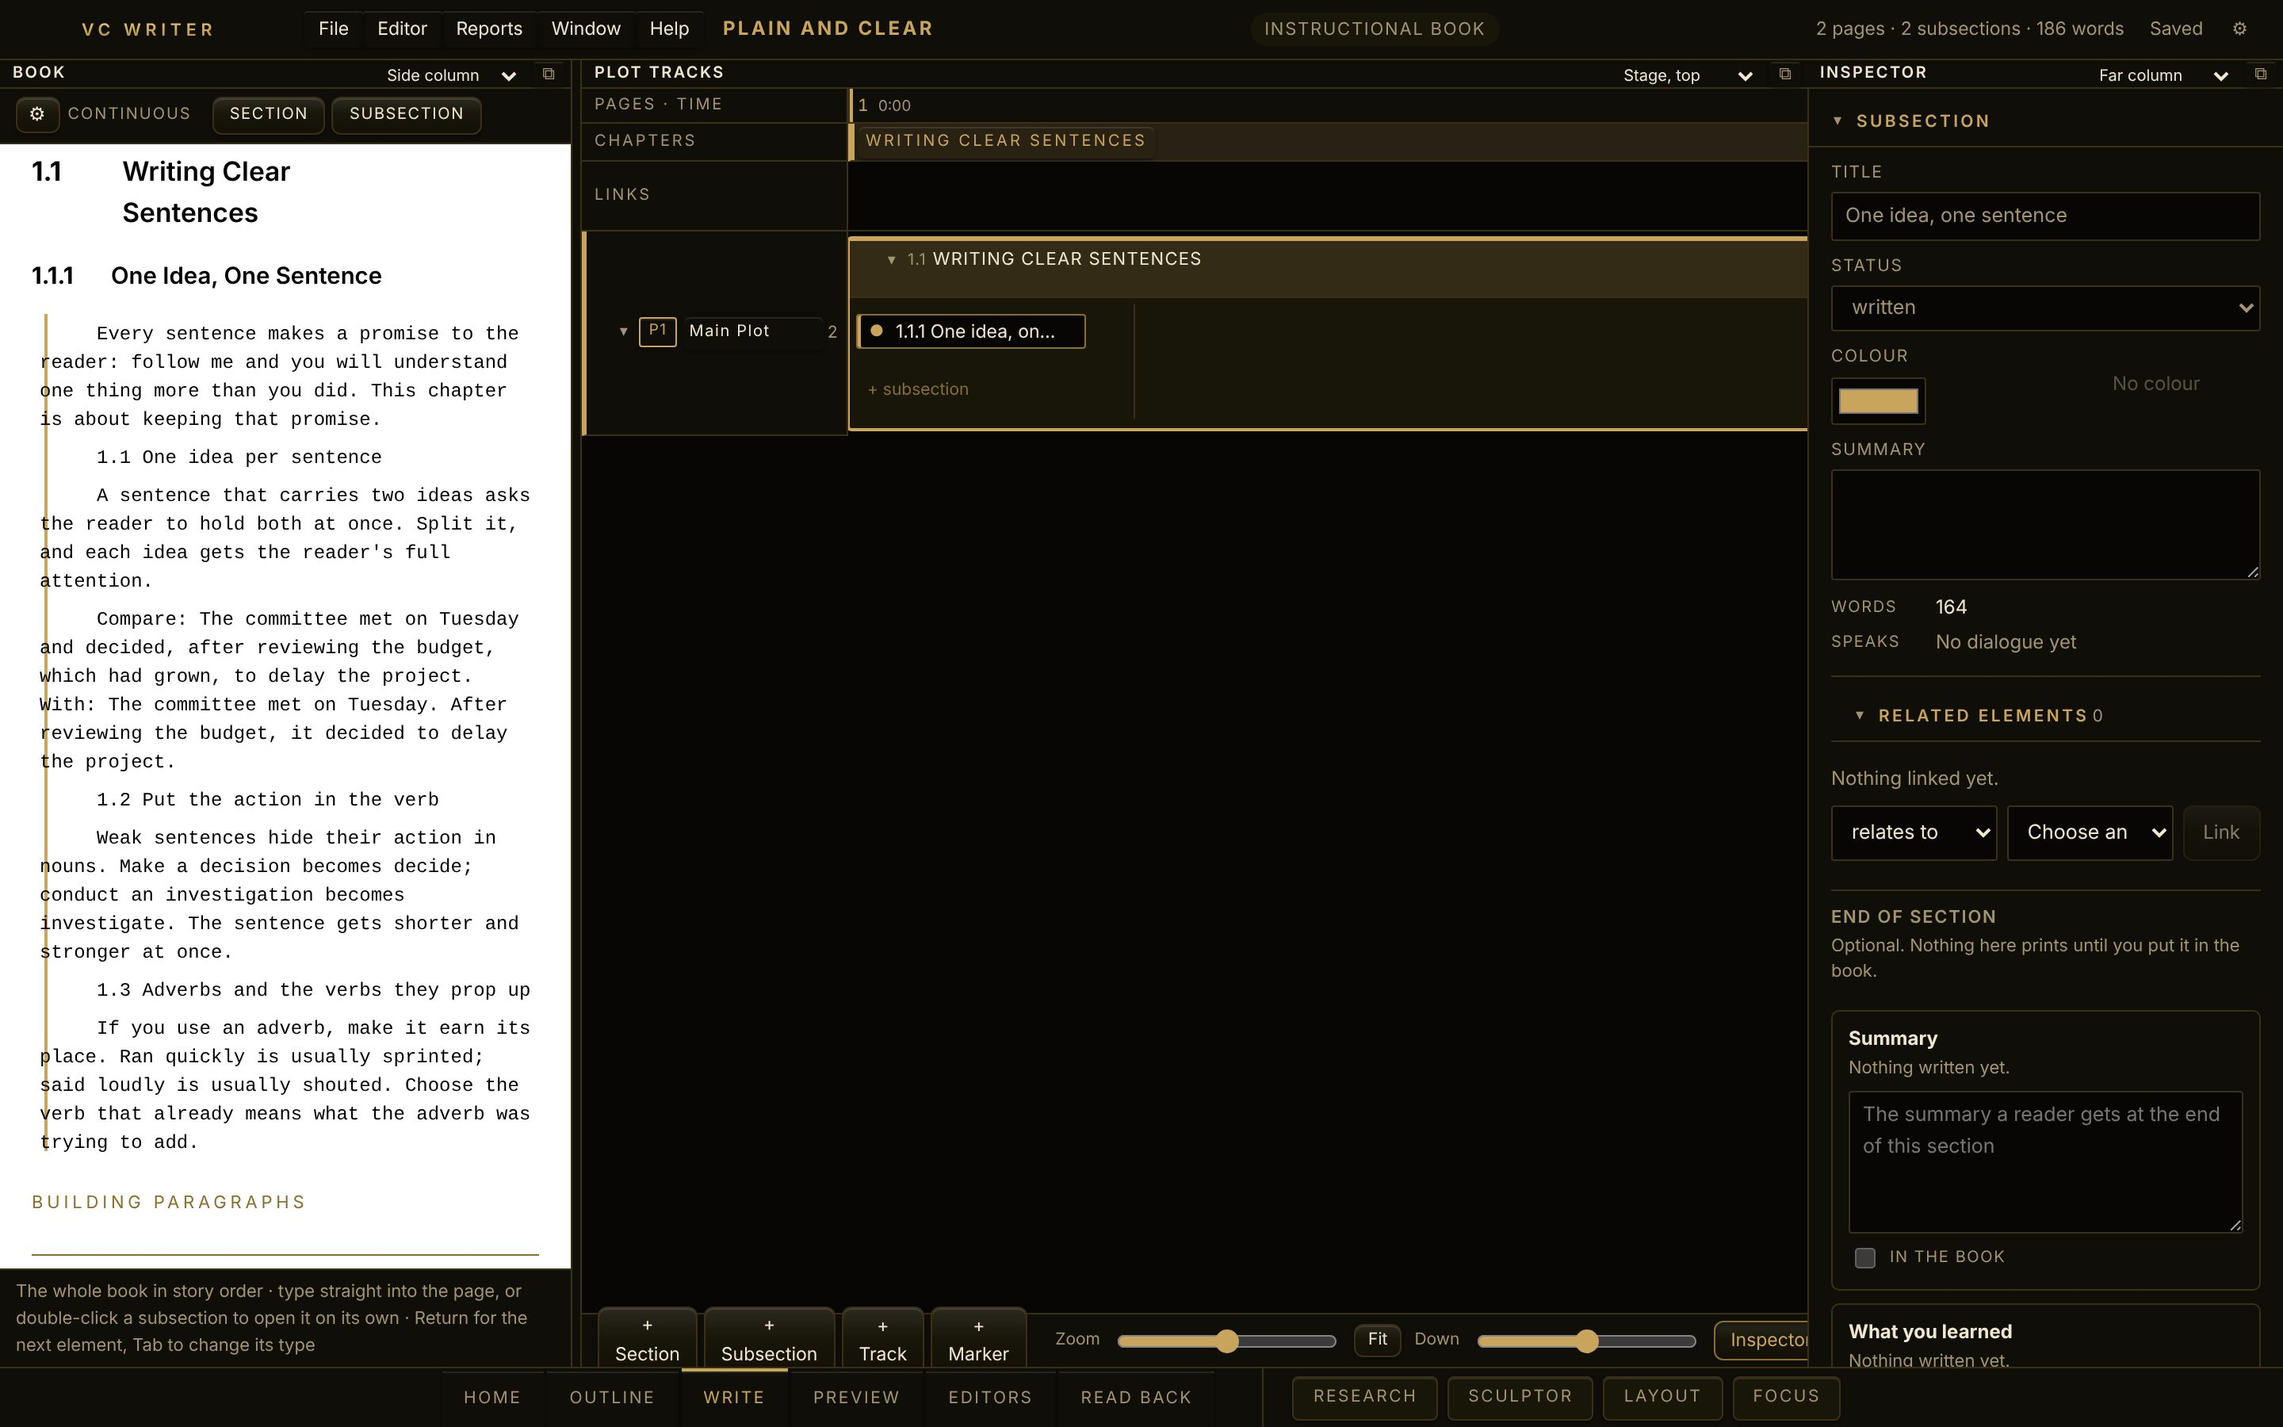
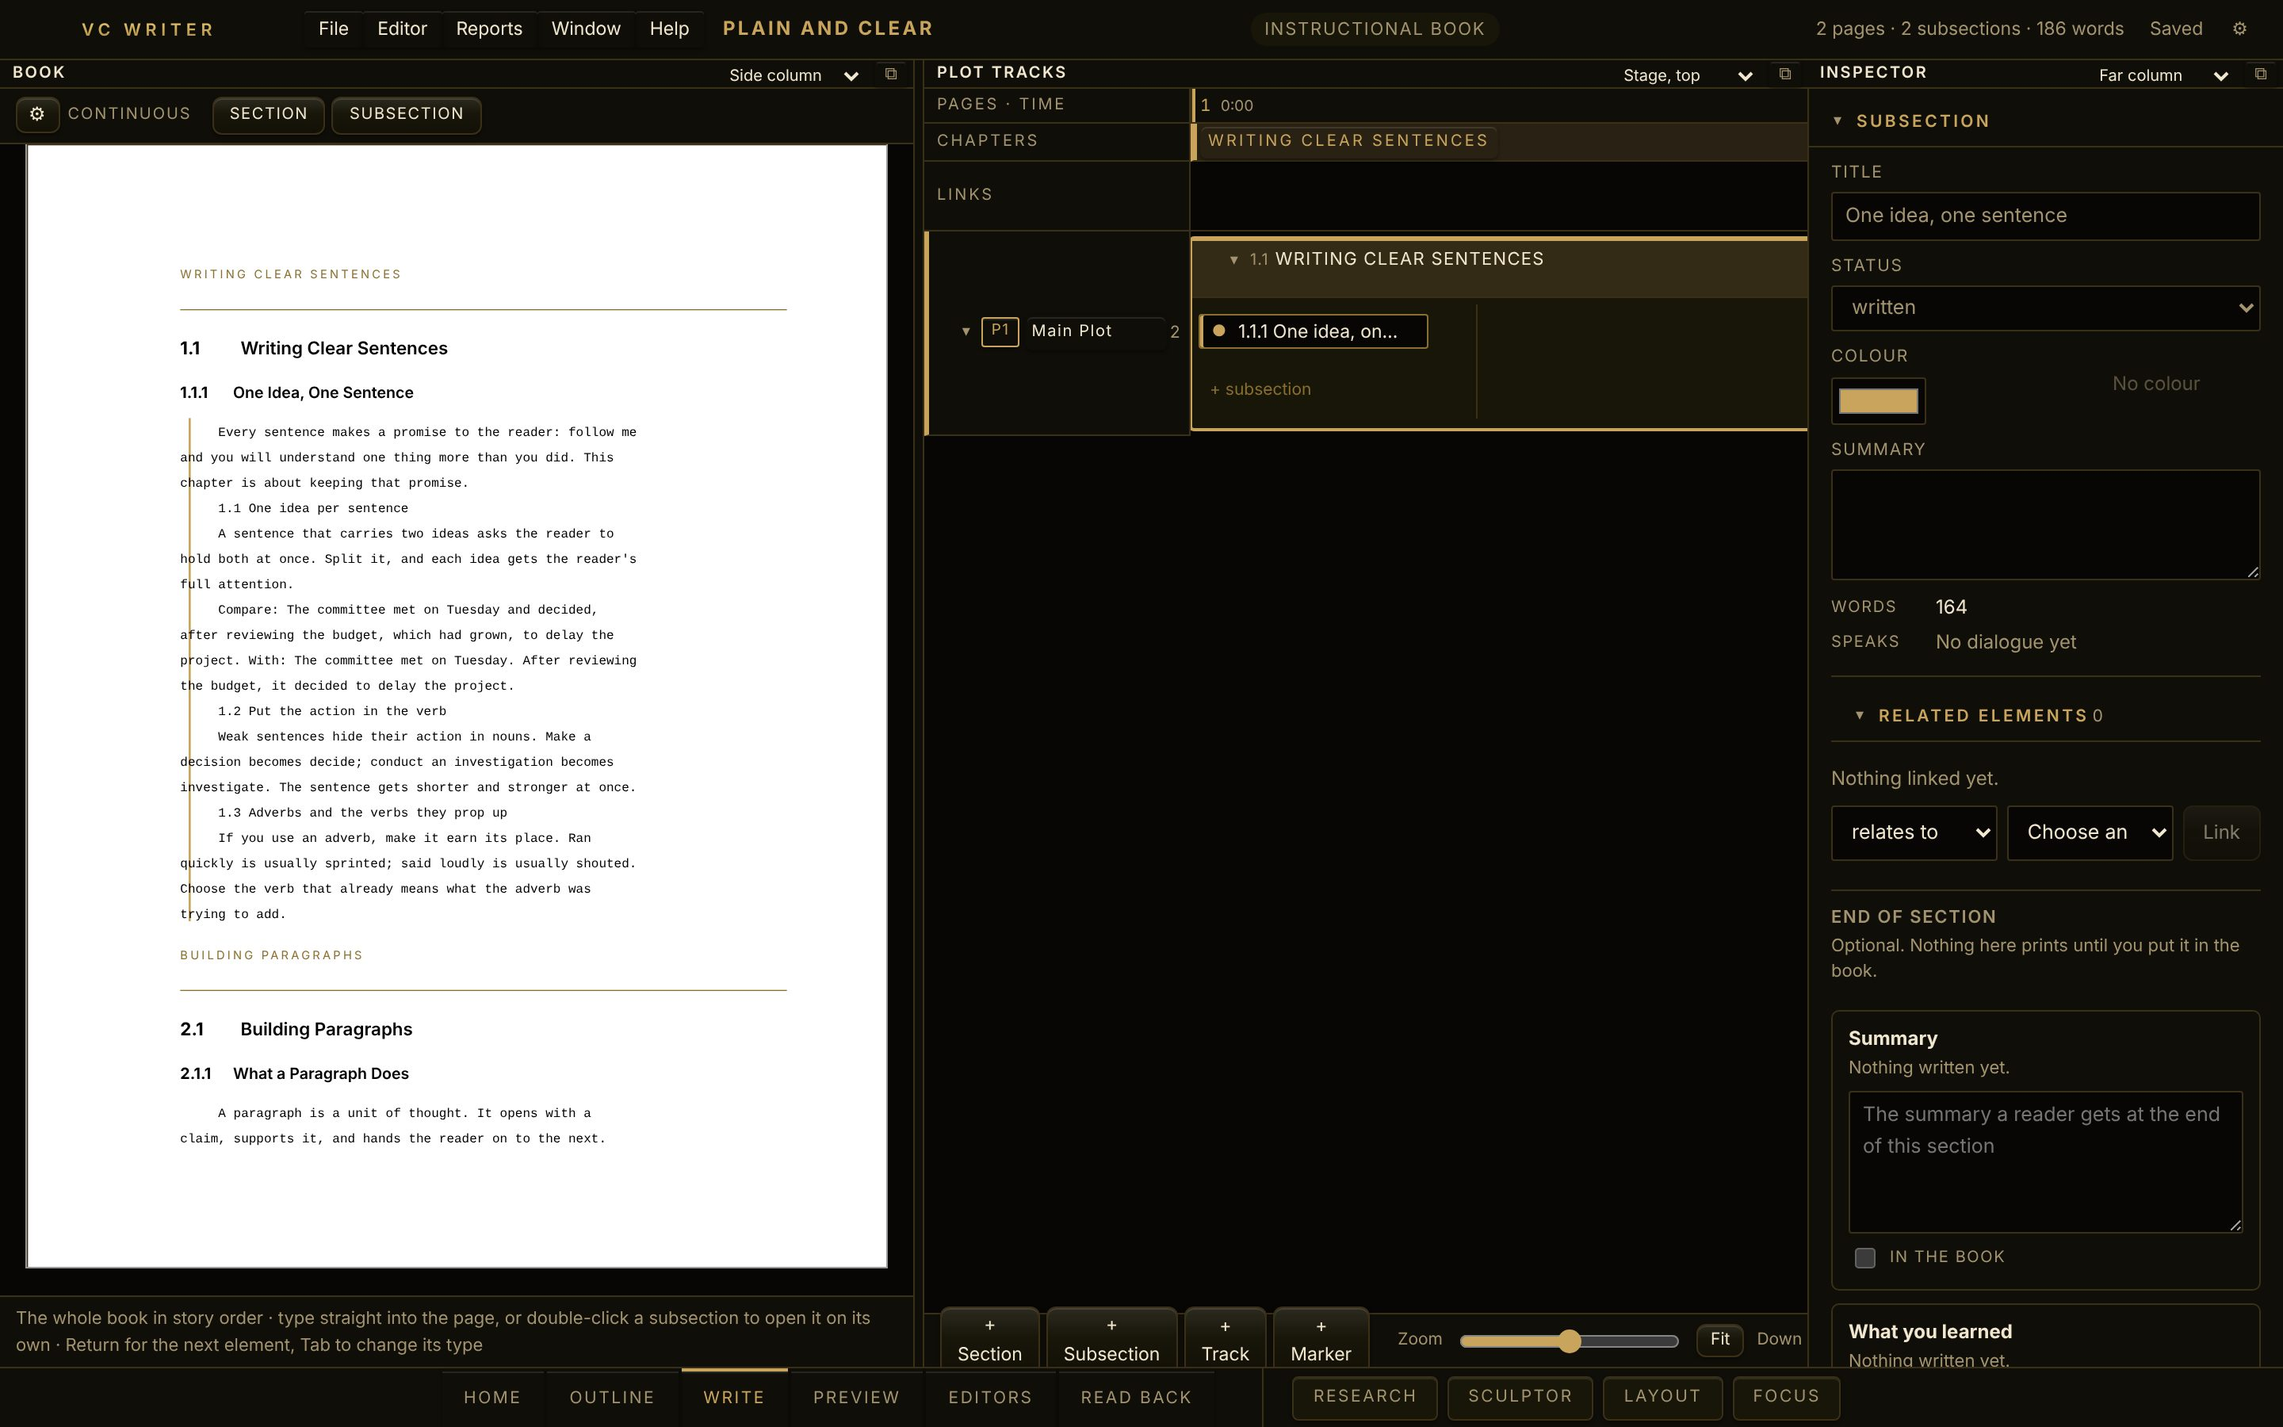
The manuscript on the left is a sheet of 8½ by 11 paper
The continuous script and manuscript view is laid out on an 8½-inch sheet
with the print margins and 12pt type, then scaled to the column as one
piece, so every line breaks where it breaks on paper instead of wrapping
to the column. The page view's print spacing applies to it, and prose is
double spaced with run-on paragraphs on both views, as the paginator
counts it. The script column starts at 40% of the window (a new key, so
existing installs get the wider start once). Every screenshot is retaken.

Claude-Session: https://claude.ai/code/session_01HufyX56kuynopRgv2CJ1Ch

diff --git a/apps/desktop/src/renderer/workspace.css b/apps/desktop/src/renderer/workspace.css
@@ -2777,7 +2777,7 @@ input[type='color'].swatch {
   display: none;
 }
 
-.script-pages .page-column {
+:is(.script-pages, .sheet-paper) .page-column {
   font-size: 12pt;
   /* Six lines to the inch, exactly, and no gap between elements: the blank
      line between them is a real blank line, put there below. */
@@ -2788,34 +2788,34 @@ input[type='color'].swatch {
 /* One blank line between blocks, as the paginator counts it — between two
    elements of a beat, and equally between two beats, which are two blocks on
    the page whatever they are in the structure. */
-.script-pages .element + .element,
-.script-pages .dual-row,
-.script-pages .element + .dual-row,
-.script-pages .dual-row + .element,
-.script-pages .beat-block + .beat-block,
-.script-pages .beat-block + .beat-name,
-.script-pages .beat-name + .beat-block,
-.script-pages .beat-block + .scene-name,
-.script-pages .beat-block + .act-bar {
+:is(.script-pages, .sheet-paper) .element + .element,
+:is(.script-pages, .sheet-paper) .dual-row,
+:is(.script-pages, .sheet-paper) .element + .dual-row,
+:is(.script-pages, .sheet-paper) .dual-row + .element,
+:is(.script-pages, .sheet-paper) .beat-block + .beat-block,
+:is(.script-pages, .sheet-paper) .beat-block + .beat-name,
+:is(.script-pages, .sheet-paper) .beat-name + .beat-block,
+:is(.script-pages, .sheet-paper) .beat-block + .scene-name,
+:is(.script-pages, .sheet-paper) .beat-block + .act-bar {
   margin-top: 12pt;
 }
 
 /* Except inside a speech, which is one block of consecutive lines — the
    paginator counts it that way, and the page prints it that way. */
-.script-pages .element-character + .element-parenthetical,
-.script-pages .element-character + .element-dialogue,
-.script-pages .element-parenthetical + .element-dialogue,
-.script-pages .element-parenthetical + .element-parenthetical,
-.script-pages .element-dialogue + .element-parenthetical,
-.script-pages .element-dialogue + .element-dialogue {
+:is(.script-pages, .sheet-paper) .element-character + .element-parenthetical,
+:is(.script-pages, .sheet-paper) .element-character + .element-dialogue,
+:is(.script-pages, .sheet-paper) .element-parenthetical + .element-dialogue,
+:is(.script-pages, .sheet-paper) .element-parenthetical + .element-parenthetical,
+:is(.script-pages, .sheet-paper) .element-dialogue + .element-parenthetical,
+:is(.script-pages, .sheet-paper) .element-dialogue + .element-dialogue {
   margin-top: 0;
 }
 
 /* Nothing may add height that the printed page does not have, so the box the
    writer types in carries no padding and no border; the focus ring is an
    outline, which takes no room. */
-.script-pages .element .ink,
-.script-pages .element textarea {
+:is(.script-pages, .sheet-paper) .element .ink,
+:is(.script-pages, .sheet-paper) .element textarea {
   padding: 0;
   border: 0;
 }
@@ -2823,11 +2823,11 @@ input[type='color'].swatch {
 /* The same on the paged Script: the caret says where you are and nothing else
    does (§19). An outline here would be a box that follows the cursor down the
    page. */
-.script-pages .element textarea:focus {
+:is(.script-pages, .sheet-paper) .element textarea:focus {
   outline: none;
 }
 
-.script-pages .beat-block {
+:is(.script-pages, .sheet-paper) .beat-block {
   padding: 0;
   margin: 0;
   border: 0;
@@ -2836,13 +2836,13 @@ input[type='color'].swatch {
 /* The scaffolding — act bars, scene names, beat names — prints nothing, so
    it is kept to a single line's worth of room and never pushes a line onto
    another sheet. */
-.script-pages .beat-name,
-.script-pages .scene-name,
-.script-pages .act-bar {
+:is(.script-pages, .sheet-paper) .beat-name,
+:is(.script-pages, .sheet-paper) .scene-name,
+:is(.script-pages, .sheet-paper) .act-bar {
   margin-bottom: 12pt;
 }
 
-.script-pages .script-title-block {
+:is(.script-pages, .sheet-paper) .script-title-block {
   margin-bottom: 24pt;
 }
 
@@ -4128,7 +4128,7 @@ dialog.marker-dialog {
    are named apart from it because the sheet declares `--paper` on itself and
    a variable cannot be inherited past a declaration on the element it lands
    on. */
-.workspace .script-view.own-paper .script-sheet,
+.workspace .script-view.own-paper .sheet-paper,
 .workspace .script-view.own-paper .page-sheet {
   background: var(--own-paper);
   color: var(--own-ink);
@@ -23153,3 +23153,68 @@ input.note-rewrite-title:focus { border-color: var(--gold); outline: none; }
 .sc-outline-row:hover { border-color: var(--gold-deep); }
 .sc-outline-kind { flex: 0 0 auto; font-size: 10px; letter-spacing: 0.06em; text-transform: uppercase; color: var(--gold); }
 .sc-outline-title { min-width: 0; overflow: hidden; text-overflow: ellipsis; white-space: nowrap; font-size: 12.5px; }
+
+
+/* ------------------------------------------------------ continuous sheet */
+
+/* The continuous page as a sheet of 8½-inch paper (from Ken: *it needs to be
+   like a regular 8.5 by 11 sheet of paper; on the screen they look
+   smashed*). Laid out at the printed width with the print margins and 12pt
+   type, then scaled to the column as one piece, exactly as the page view is:
+   the line that turns on screen is the line that turns on paper. The
+   surround is the dark of the workspace, so the page reads as a page. */
+.script-sheet {
+  padding: 16px;
+  background: var(--ink);
+}
+
+.workspace.script-paper .script-sheet {
+  background: var(--ink);
+  color-scheme: dark;
+}
+
+.sheet-frame {
+  margin: 0 auto;
+  overflow: hidden;
+}
+
+.sheet-paper {
+  width: 8.5in;
+  box-sizing: border-box;
+  min-height: 11in;
+  padding: 1in 1in 1in 1.5in;
+  background: var(--paper, var(--panel-2));
+  color: var(--paper-ink, var(--text));
+  border: 1px solid var(--border);
+  box-shadow: 0 2px 16px color-mix(in srgb, #000 45%, transparent);
+  transform: scale(var(--sheet-zoom, 1));
+  transform-origin: top left;
+}
+
+.workspace.script-paper .sheet-paper {
+  color-scheme: light;
+}
+
+/* Printed type: 12pt, so each element's width in characters is its width in
+   inches on paper. The column is the page's, centred in the margins. */
+.sheet-paper .page-column {
+  font-size: 12pt;
+  margin: 0 auto;
+  width: fit-content;
+  max-width: none;
+}
+
+.script-view.focus .script-sheet {
+  padding-top: 4vh;
+}
+
+/* A manuscript is double spaced (PROSE_LAYOUT), and its paragraphs run on,
+   the five-space indent saying where each begins — so no blank line between
+   them. Both page views draw the spacing the paginator counts. */
+:is(.sheet-paper, .page-sheet).double-spaced .page-column {
+  line-height: 2;
+}
+
+:is(.sheet-paper, .page-sheet).run-on .element-paragraph + .element-paragraph {
+  margin-top: 0;
+}

diff --git a/apps/desktop/src/renderer/components/StoryView.tsx b/apps/desktop/src/renderer/components/StoryView.tsx
@@ -1,5 +1,6 @@
 import { Fragment, useEffect, useMemo, useRef, useState } from 'react';
 import {
+  layoutForFile,
   beatsForUnit,
   carveBeat,
   carveUnit,
@@ -139,6 +140,14 @@ export function StoryView({
 }: StoryViewProps) {
   const layout = useMemo(() => givenLayout ?? storyLayout(file), [givenLayout, file]);
   const prose = isProseFormat(file.project.format);
+  /**
+   * How the printed page spaces its lines, said to the sheet as classes: a
+   * manuscript is double spaced, and where its paragraphs run on (the
+   * five-space indent marks them) there is no blank line between them. The
+   * screen draws what the paginator counts.
+   */
+  const pageSpec = layoutForFile(file);
+  const spacing = `${pageSpec.doubleSpaced ? ' double-spaced' : ''}${pageSpec.runOn?.has('paragraph') ? ' run-on' : ''}`;
   // §14: no screen names a unit itself. Every label below reads the table.
   const nouns = nounsFor(file.project.format);
   /**
@@ -269,6 +278,35 @@ export function StoryView({
     return () => observer.disconnect();
   }, [paged, sheets?.length, display, file]);
   const scale = zoom === FIT ? Math.max(0.25, Math.min(1.6, room / PAGE_PX)) : zoom;
+
+  /**
+   * **The continuous page is a sheet too** (from Ken: *the script or
+   * manuscript on the left … needs to be like a regular 8.5 by 11 sheet of
+   * paper; on the screen they look smashed*). It is laid out at the printed
+   * width — 8½ inches, the print margins, 12pt type — and scaled to fit the
+   * column, the same way the page view is, so every line turns where it turns
+   * on paper however narrow the column is. It runs on without page breaks;
+   * that is what makes it continuous.
+   */
+  const sheetShell = useRef<HTMLDivElement>(null);
+  const sheetPaper = useRef<HTMLDivElement>(null);
+  const [sheetRoom, setSheetRoom] = useState(PAGE_PX);
+  const [sheetTall, setSheetTall] = useState(0);
+  useEffect(() => {
+    const scroller = sheetShell.current;
+    const paper = sheetPaper.current;
+    if (paged || !scroller || !paper || typeof ResizeObserver !== 'function') return;
+    const measure = () => {
+      if (scroller.clientWidth > 0) setSheetRoom(scroller.clientWidth - 32);
+      setSheetTall(paper.offsetHeight);
+    };
+    measure();
+    const observer = new ResizeObserver(measure);
+    observer.observe(scroller);
+    observer.observe(paper);
+    return () => observer.disconnect();
+  }, [paged, display, file]);
+  const sheetScale = Math.max(0.3, Math.min(1.6, sheetRoom / PAGE_PX));
 
   // A selection made in the tracks or the inspector brings the beat into view.
   // One made here — the cursor is already in it — must not yank the page.
@@ -586,7 +624,7 @@ export function StoryView({
               {sheets.map((items, index) => (
             <section
               key={index}
-              className={display.headings ? 'page-sheet' : 'page-sheet no-headings'}
+              className={`${display.headings ? 'page-sheet' : 'page-sheet no-headings'}${spacing}`}
               aria-label={`Page ${index + 1}`}
             >
               <span className="page-sheet-number" aria-hidden="true">
@@ -624,7 +662,15 @@ export function StoryView({
           ) : null}
         </div>
       ) : (
-        <div className={display.headings ? 'script-sheet' : 'script-sheet no-headings'}>
+        <div
+          className={display.headings ? 'script-sheet' : 'script-sheet no-headings'}
+          ref={sheetShell}
+          style={{ '--sheet-zoom': sheetScale } as React.CSSProperties}
+        >
+          {/* The room the scaled sheet looks like it takes; the paper inside
+              is laid out at its true printed size. */}
+          <div className="sheet-frame" style={{ width: PAGE_PX * sheetScale, height: sheetTall > 0 ? sheetTall * sheetScale : undefined }}>
+          <div className={`sheet-paper${spacing}`} ref={sheetPaper}>
           {layout.spans.map((span) => {
             const unit = span.unit;
             // A scene switched off leaves the script and stays on the timeline.
@@ -678,6 +724,8 @@ export function StoryView({
               Add a {nouns.unit.toLowerCase()} from the tracks toolbar to start writing.
             </p>
           ) : null}
+          </div>
+          </div>
         </div>
       )}
 

diff --git a/apps/desktop/src/renderer/App.tsx b/apps/desktop/src/renderer/App.tsx
@@ -294,7 +294,10 @@ export default function App() {
   const [projectsChanged, setProjectsChanged] = useState(0);
   // The Edit-page proportions (addendum 02 §3): a quarter for the script,
   // and of the rest, just under half for the viewport above the tracks.
-  const columns = useSplit({ key: 'leftWidth', initial: 0.25, min: 300, reserve: 640, axis: 'x' });
+  // The script column starts wide enough to read its page (from Ken: the
+  // manuscript is a sheet of 8½ by 11 paper, scaled to the column). A new key,
+  // so the wider start reaches everyone once; the divider still moves it.
+  const columns = useSplit({ key: 'scriptColumnWidth', initial: 0.4, min: 300, reserve: 640, axis: 'x' });
   /**
    * Short form is written on the sheet, so the sheet opens at full size and
    * the timeline is the strip docked under it (addendum 05 §3e). Its own key,

diff --git a/docs/spec/addendum-02-workspace.md b/docs/spec/addendum-02-workspace.md
@@ -3009,3 +3009,30 @@ module.*
   list on this machine and to the operating system's dictionary. On Windows and
   Linux the underline's language is set to the system's English, or US
   English.
+
+## The continuous page is a sheet of paper
+
+From Ken, 7 November: *the script or manuscript on the left … needs to be a
+little wider, like a regular 8.5 by 11 sheet of paper. On the screen they
+look smashed … in all the modules, a standard width for the text height, so
+it looks like it actually would if you were going to print it out.*
+
+- **The continuous view is laid out on a sheet.** It used to be a column of
+  14px type wrapped to whatever width the column happened to be, so a
+  60-character action line broke early and the page looked squeezed. Now the
+  manuscript is drawn on an 8½-inch sheet with the print margins (1½ inches
+  at the left, 1 inch elsewhere) in 12pt type, where each element's width in
+  characters is its width in inches. The whole sheet is then scaled to the
+  column, the way the page view's stack always was (`sheet-frame` /
+  `sheet-paper` in `StoryView.tsx`). Every line turns where it turns on
+  paper. It runs on without page breaks; that is what keeps it continuous.
+- **Print spacing on both views.** The page view's rules (six lines to the
+  inch, one blank line between blocks, none inside a speech) now apply to the
+  continuous sheet as well. A manuscript (`PROSE_LAYOUT`) is double spaced
+  with run-on paragraphs, so prose sheets on both views draw it that way.
+  The paginator has always counted it so; the screen had not shown it.
+- **The column starts wider**: 40% of the window instead of 25%, so the page
+  is readable without dragging. It is stored under a new key
+  (`scriptColumnWidth`) so the wider start reaches every install once; the
+  divider still moves it.
+- Every screenshot (`apps/web/scripts/shots`) was retaken with the new page.
